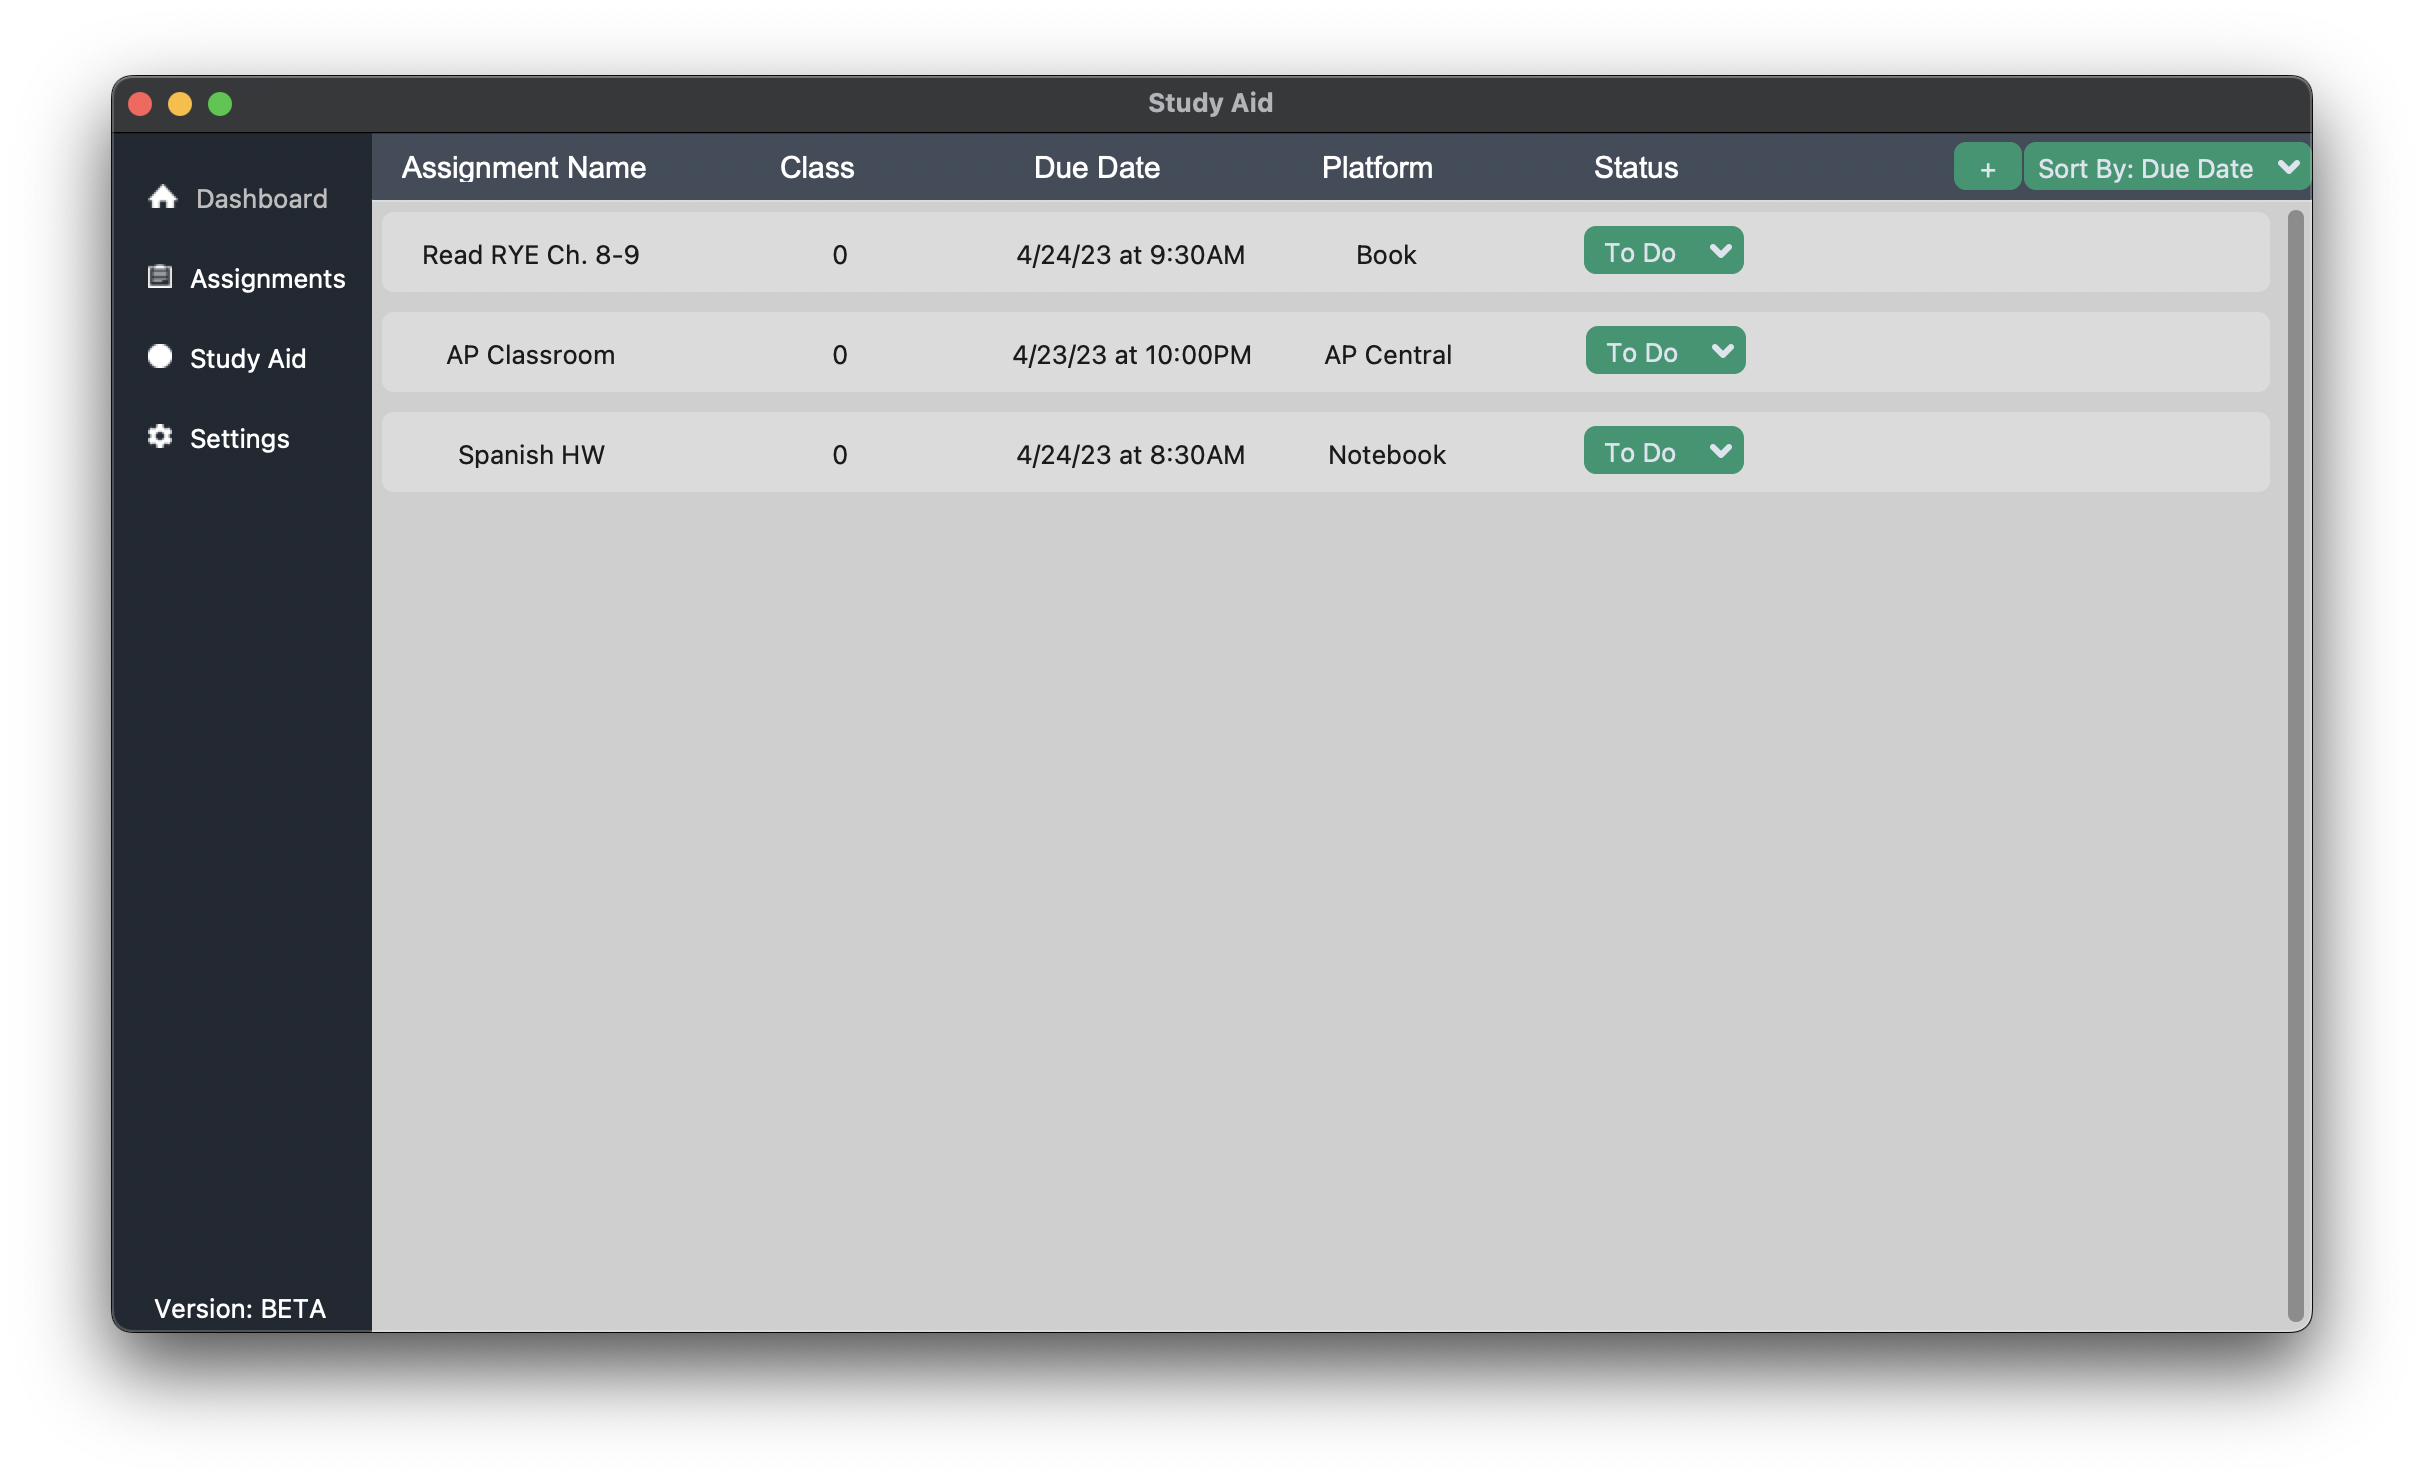
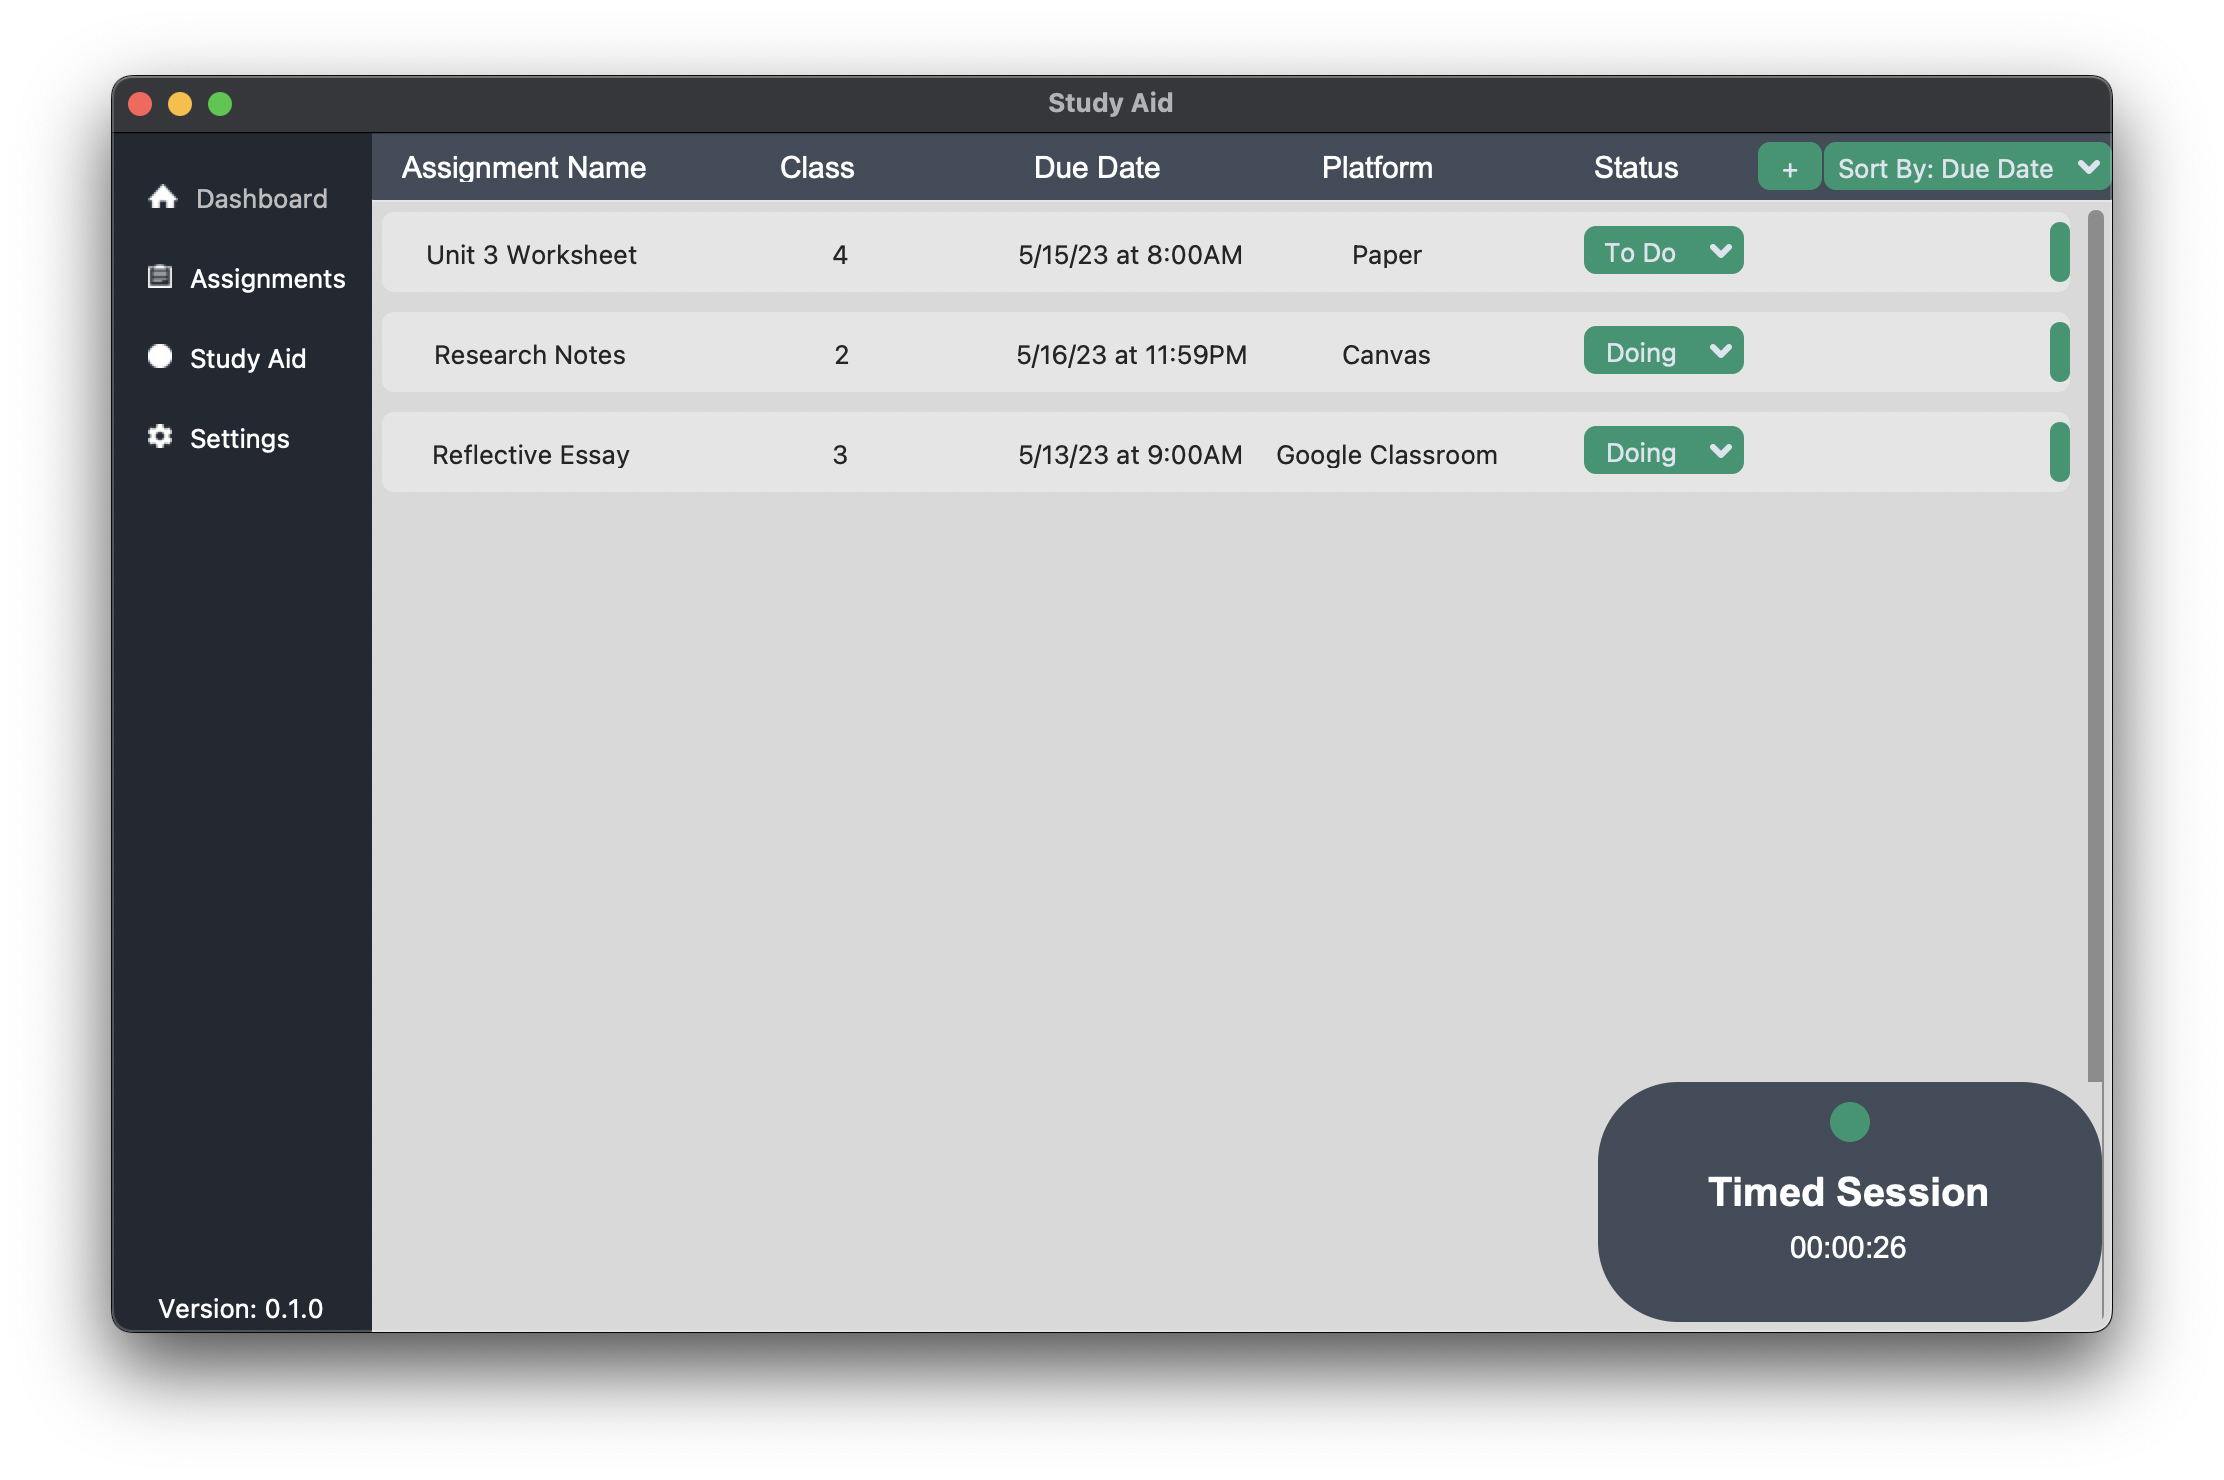
v0.1.1-alpha

diff --git a/source/pages/page_assignments.py b/source/pages/page_assignments.py
@@ -117,7 +117,7 @@ class AddAssnWindow(ctk.CTkToplevel):  # Additional window to handle the options
                      "platform": ret_asn[4],
                      'status': ret_asn[5]}
             try:
-                with open("user_assn.json", "r") as file:
+                with open("elements/user_assn.json", "r") as file:
                     dicts = json.load(file)
             except (FileNotFoundError, json.decoder.JSONDecodeError):
                 dicts = []
@@ -128,12 +128,12 @@ class AddAssnWindow(ctk.CTkToplevel):  # Additional window to handle the options
                     found = True
                     if d != dict1:
                         dicts[i] = dict1
-                        with open("user_assn.json", "w") as file:
+                        with open("elements/user_assn.json", "w") as file:
                             json.dump(dicts, file, indent=4)
                     break
             if not found:
                 dicts.append(dict1)
-                with open("user_assn.json", "w") as file:
+                with open("elements/user_assn.json", "w") as file:
                     json.dump(dicts, file, indent=4)
 
             import_assignments(assn_page_frame)
@@ -183,9 +183,25 @@ class Assignment:  # Class that creates individual assignment objects
         self.assignmentStatusLabel.set(f'{self.assignmentStatus}')
         self.assignmentStatusLabel.pack(side=tk.LEFT, padx=35)
 
+        self.move_button = ctk.CTkButton(self.frame, height=30, width=10, text="")
+        self.move_button.pack(side=tk.RIGHT, anchor=tk.CENTER)
+
+        self.move_button.bind('<Button-1>', self.start_move)
+        self.move_button.bind('<B1-Motion>', self.move)
+
+    def start_move(self, event):
+        self._drag_start_y = event.y
+
+    def move(self, event):
+        new_y = self.frame.winfo_y() + (event.y - self._drag_start_y)
+        if new_y < self._drag_start_y:
+            print("move up")
+        else:
+            print("move down")
+
     @staticmethod
     def update_status(new_status, assn_name):  # Function to update the status of individual assignments
-        with open('user_assn.json', 'r') as file:
+        with open('elements/user_assn.json', 'r') as file:
             assignments = json.load(file)
 
         for item in assignments:
@@ -196,7 +212,7 @@ class Assignment:  # Class that creates individual assignment objects
                 else:
                     item['status'] = new_status
 
-        with open('user_assn.json', "w") as file:
+        with open('elements/user_assn.json', "w") as file:
             json.dump(assignments, file, indent=4)
 
         import_assignments(assn_page_frame)
@@ -205,7 +221,7 @@ class Assignment:  # Class that creates individual assignment objects
 def import_assignments(page):  # Function to import assignments from the JSON file
     AssignmentsPage.update_assignment_list()
     try:
-        with open("user_assn.json", "r") as file:
+        with open("elements/user_assn.json", "r") as file:
             assignments = json.load(file)
             for assn in assignments:
                 assignment = Assignment(page.childrenFrame, f"{assn['name']}", f"{assn['class']}",

diff --git a/source/main.py b/source/main.py
@@ -4,23 +4,16 @@ from PIL import Image
 import json
 import time
 
-import page_assignments
-import page_settings
-import page_studyaid
+from source.pages import page_settings, page_studyaid, page_assignments
+from source.elements.functions import open_config
 
 WINDOW_WIDTH = 1000
 WINDOW_HEIGHT = 600
 
-with open('config.json', 'r') as f:
-    data = json.load(f)
-    version = data['Version']
-    appearance = data['Appearance']
-    accent_color = data["Accent_Color"]
-    sawin_show = data["SAWIN_SHOW"]
-    sawin_automin = data["SAWIN_AUTOMIN"]
-    f.close()
 
-ctk.set_appearance_mode(appearance)
+settings = open_config()
+ctk.set_appearance_mode(settings['appearance'])
+ctk.set_default_color_theme(f"themes/green.json")
 
 
 class Application:  # Creates the root window for the program
@@ -56,7 +49,7 @@ class StudyAidTimedElements:
         minutes, seconds = divmod(self.elapsed_time, 60)
         hours, minutes = divmod(minutes, 60)
         self.timer = ("{:02.0f}:{:02.0f}:{:02.0f}".format(hours, minutes, seconds))
-        if sawin_show == 1:
+        if settings['sawin_show'] == 1:
             study_window.timer.configure(text=self.timer)
         try:
             self.child.timer.configure(text=self.timer)
@@ -73,7 +66,7 @@ class StudyAidTimedElements:
 
     def timed_reset(self):
         self.timer = "00:00:00"
-        if sawin_show == 1:
+        if settings['sawin_show'] == 1:
             study_window.timer.configure(text="00:00:00")
         self.start_time = 0
         self.elapsed_time = 0
@@ -92,7 +85,7 @@ class StudyAidFocusElements:
 app = Application()
 sa_timed_elements = StudyAidTimedElements(app)
 sa_focus_elements = StudyAidFocusElements(app)
-if sawin_show == 1:
+if settings['sawin_show'] == 1:
     study_window = page_studyaid.StudyAidWindow(app, sa_timed_elements)
 
 
@@ -133,7 +126,7 @@ class Sidebar:  # Class to handle the Sidebar on the window
         self.settingsButton.place(x=10, y=140)
 
         self.versionLabel = ctk.CTkLabel(self.sidebar_frame, text_color='white', fg_color="transparent",
-                                         text=f"Version: {version}", width=100, height=25)
+                                         text=f"Version: {settings['version']}", width=100, height=25)
         self.versionLabel.pack(side=tk.BOTTOM)
 
 
@@ -164,10 +157,10 @@ def open_page(page):
         opened_frame = page_settings.SettingsPage(app)
         opened_page = 'Settings'
 
-    if sawin_show == 1:
+    if settings['sawin_show'] == 1:
         study_window.frame.lift()
 
 
 # Initial Calls
-open_page('StudyAid')
+open_page('Settings')
 app.root.mainloop()

diff --git a/source/pages/page_settings.py b/source/pages/page_settings.py
@@ -3,7 +3,7 @@ import tkinter as tk
 import json
 from PIL import Image
 
-with open('config.json', 'r') as file:
+with open('elements/config.json', 'r') as file:
     data = json.load(file)
     version = data['Version']
     appearance = data['Appearance']
@@ -107,14 +107,13 @@ class InteractionSettings:
 
         self.active_color = color
 
-        with open('config.json', 'r') as file:
+        with open('elements/config.json', 'r') as file:
             data = json.load(file)
 
         data['Accent_Color'] = self.active_color
         ctk.set_default_color_theme(f'themes/{accent_color}.json')
-        print("updated")
 
-        with open('config.json', 'w') as file:
+        with open('elements/config.json', 'w') as file:
             json.dump(data, file, indent=2)
 
 
@@ -151,7 +150,7 @@ class StudyAidSettings:
         self.read_settings()
 
     def read_settings(self):
-        with open('config.json', 'r') as file:
+        with open('elements/config.json', 'r') as file:
             data = json.load(file)
 
         if data["SAWIN_SHOW"] == 1:
@@ -160,13 +159,13 @@ class StudyAidSettings:
             self.sawin_automin.select()
 
     def write_settings(self):
-        with open('config.json', 'r') as file:
+        with open('elements/config.json', 'r') as file:
             data = json.load(file)
 
         data['SAWIN_SHOW'] = self.sawin_show.get()
         data['SAWIN_AUTOMIN'] = self.sawin_automin.get()
 
-        with open('config.json', 'w') as file:
+        with open('elements/config.json', 'w') as file:
             json.dump(data, file, indent=2)
 
 
@@ -187,7 +186,7 @@ class ChangeLog:
         self.text = tk.Text(self.frame, width=950, height=550, bg=cl_bg, fg=cl_fg)
         self.text.pack()
 
-        with open('changelog.txt', 'r') as changelog:
+        with open('docs/changelog.txt', 'r') as changelog:
             changelog_text = changelog.read()
             self.text.insert('1.0', changelog_text)
 

diff --git a/source/pages/page_studyaid.py b/source/pages/page_studyaid.py
@@ -25,12 +25,12 @@ class StudyAidPage:
         self.timedButton.pack(side=tk.LEFT, padx=5)
         self.focusButton = ctk.CTkButton(self.options_frame, text_color='white', fg_color="#4e5966",
                                          text="Focus Session", width=100, height=25,
-                                         anchor="n", command=lambda: self.open_session('Focus'))
+                                         anchor="n", command=lambda: self.open_session('Focus'), state='disabled')
         self.focusButton.pack(side=tk.LEFT, padx=5)
 
         self.open_session()
 
-    def open_session(self, session_type='Focus'):
+    def open_session(self, session_type='Timed'):
         if session_type == 'Timed' and self.current_session != 'Timed':
             self.current_session = 'Timed'
             self.session = TimedSession(self, self.elements_parent)
@@ -43,7 +43,7 @@ class StudyAidWindow:
     def __init__(self, parent, elements):
         self.parent = parent
         self.elements = elements
-        self.frame = ctk.CTkFrame(self.parent.root, width=40, height=40, corner_radius=40, bg_color='#D9D9D9',
+        self.frame = ctk.CTkFrame(self.parent.root, width=40, height=40, corner_radius=40, bg_color=('#D9D9D9', '#333333'),
                                   fg_color='#414c59')
         self.frame.propagate(False)
         self.frame_expanded = False

diff --git a/source/elements/functions.py b/source/elements/functions.py
@@ -1,0 +1,15 @@
+import json
+
+
+def open_config():
+    with open('elements/config.json', 'r') as f:
+        data = json.load(f)
+        config = {
+            'version': data['Version'],
+            'appearance': data['Appearance'],
+            'accent_color': data["Accent_Color"],
+            'sawin_show': data["SAWIN_SHOW"],
+            'sawin_automin': data["SAWIN_AUTOMIN"]}
+        f.close()
+
+    return config

diff --git a/README.md b/README.md
@@ -2,6 +2,7 @@
 An open-source application used to track assignments and overall improve productivity with features such as a stopwatch to time your studies, study sessions with built-in breaks that will alert the user when a break should be taken, and much more to come!
 > The project is open-source in order to allow people to customize their own application and meet their own needs. You can simply download and use it or customize it to fit your needs!
 
+
 ## Libraries Used
 [CustomTKinter](https://pypi.org/project/customtkinter/0.3/)
 [tkcalendar](https://pypi.org/project/tkcalendar/)
